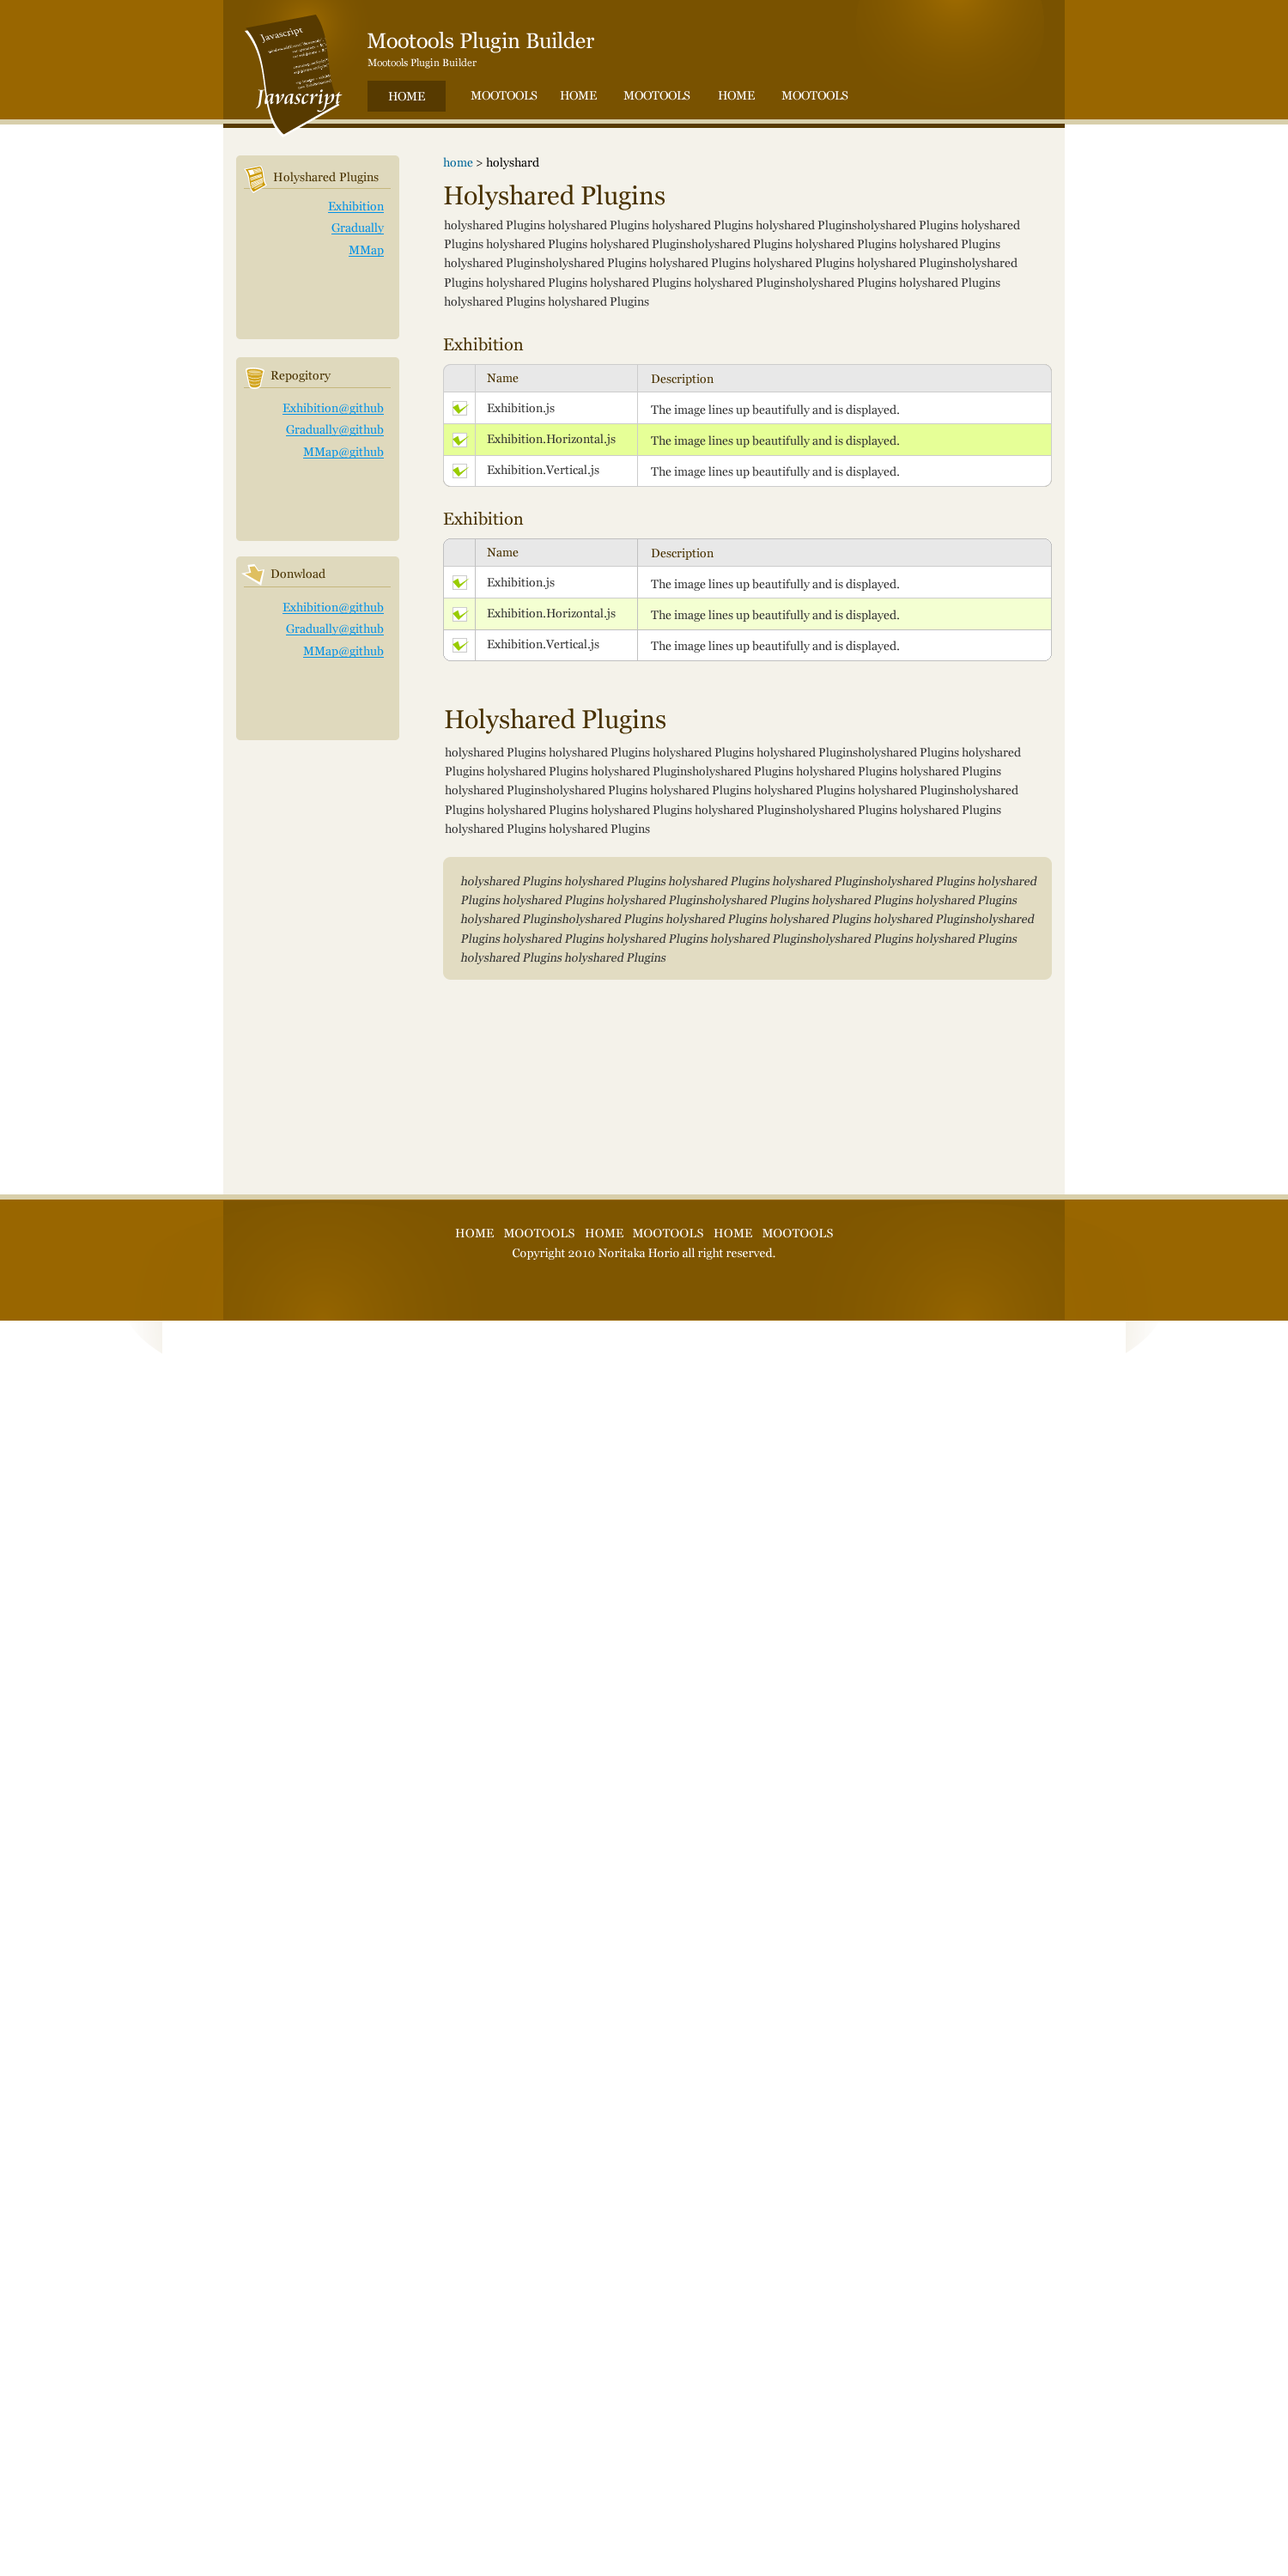
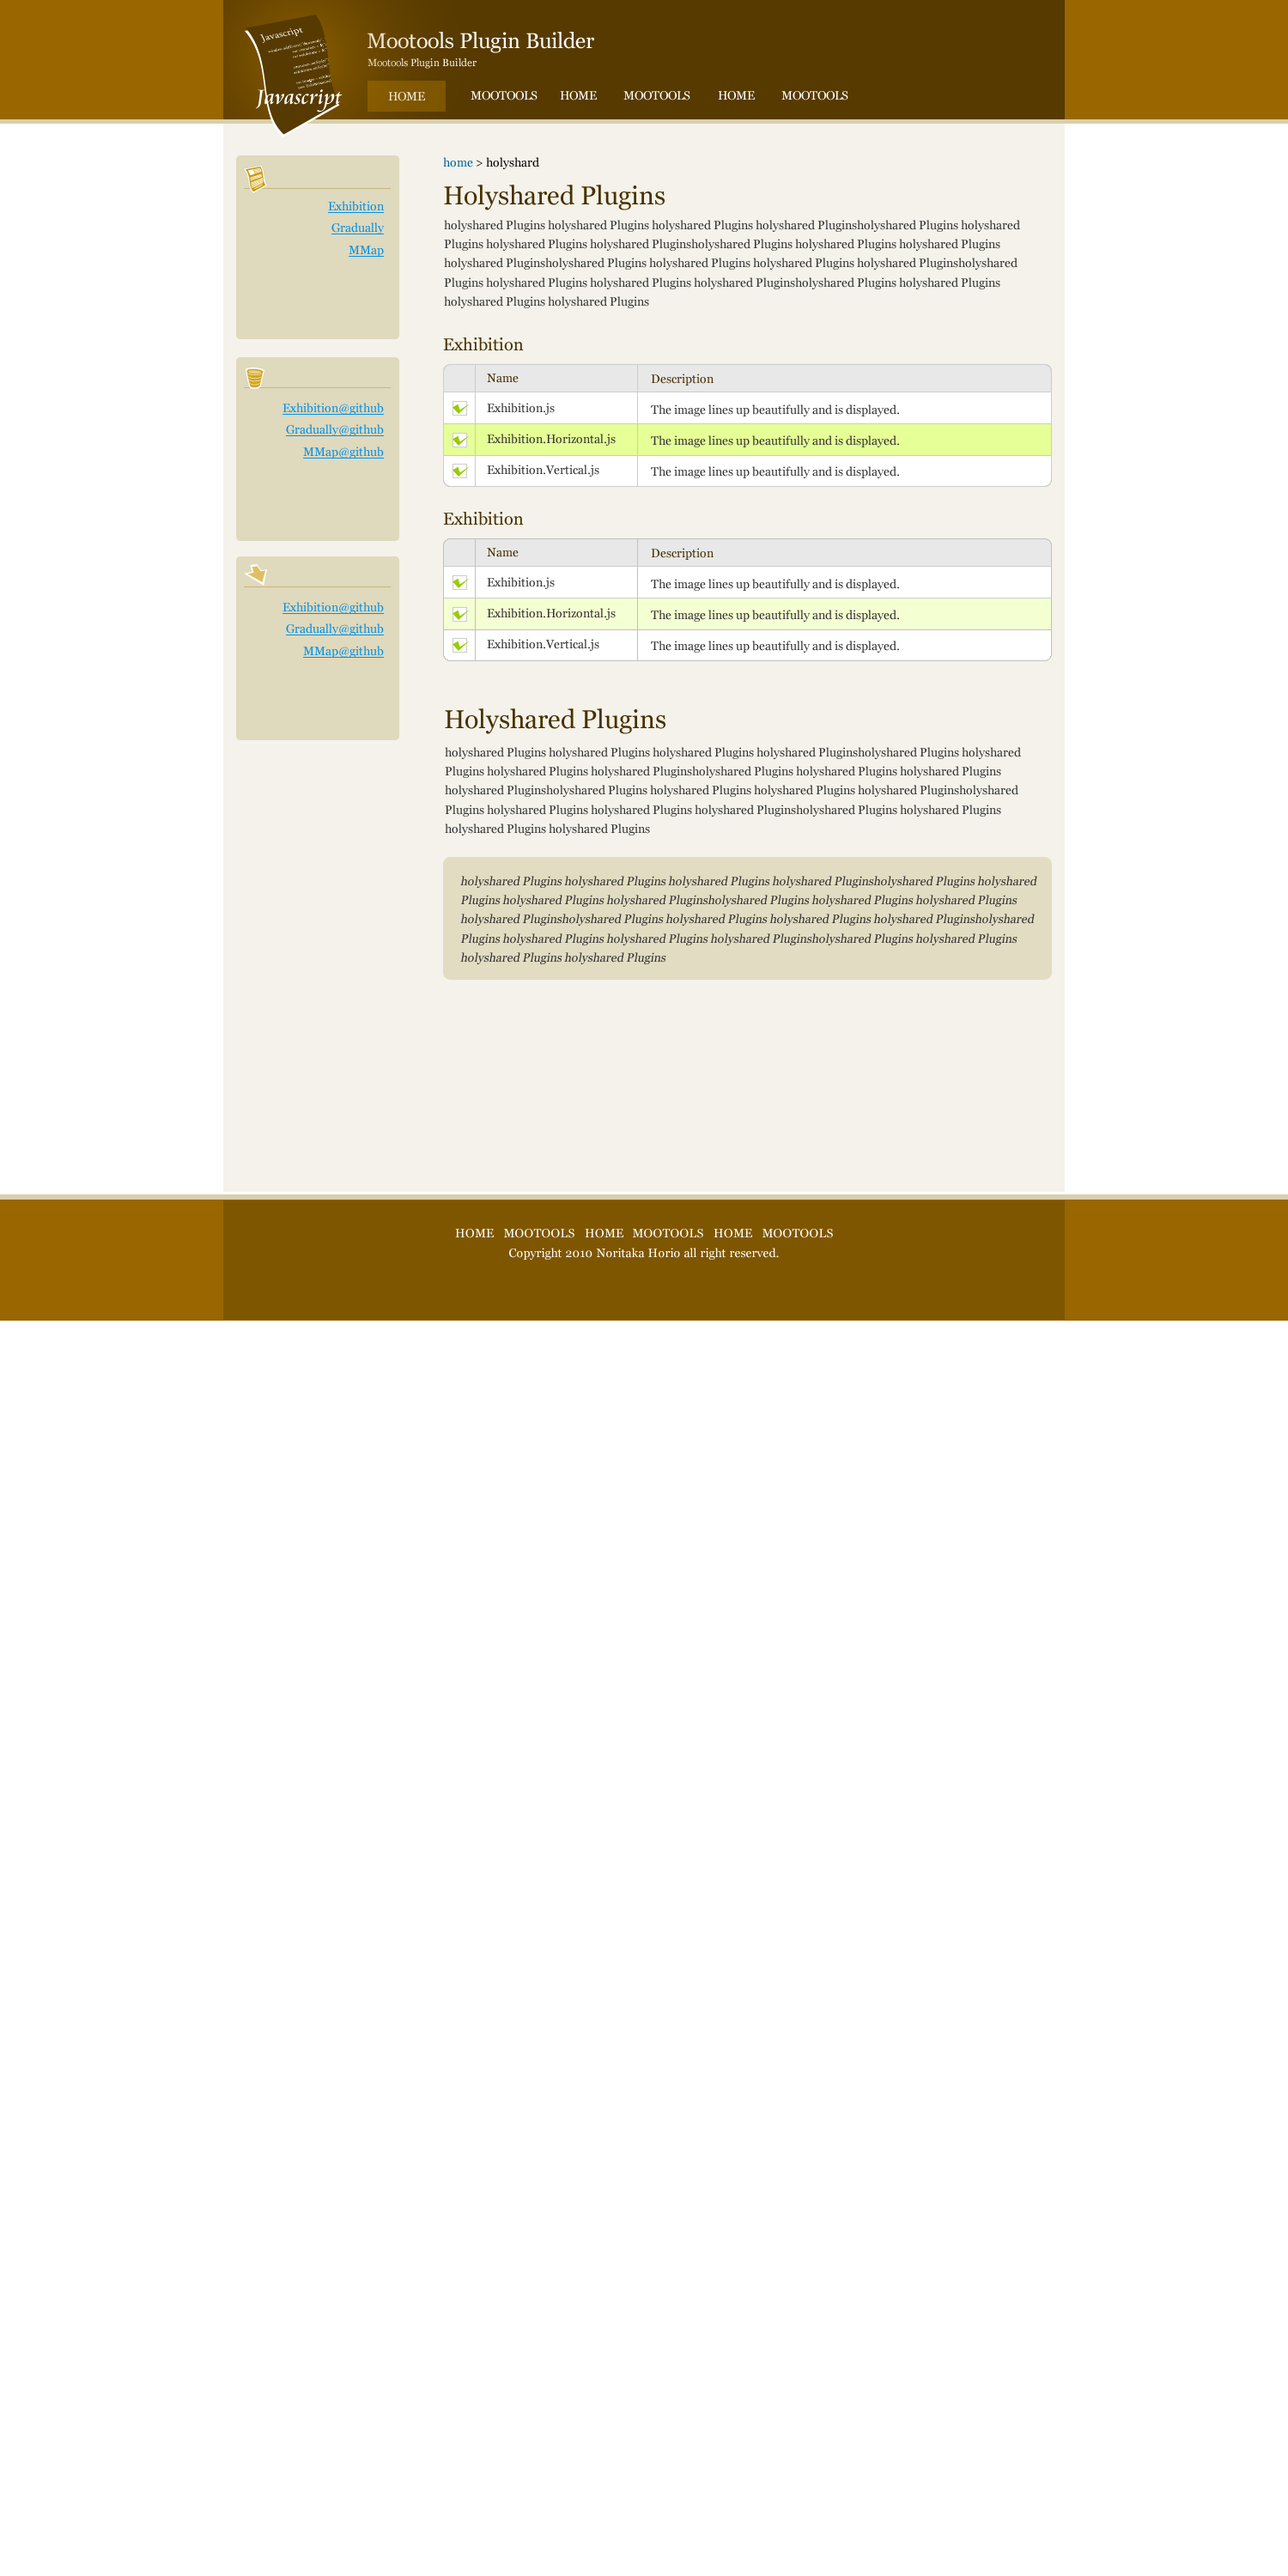
add mpb templates.

Changed region(s): [[0.276, 0.0, 0.828, 0.062], [0.2147, 0.0, 0.2453, 0.031]]

diff --git a/packages/mootools_plugin_builder/themes/script_builder/typography.css b/packages/mootools_plugin_builder/themes/script_builder/typography.css
@@ -1,22 +1,14 @@
 @charset "utf-8";
 /*
-10px=77%
-11px=85%
-12px=93%
-13px=100%
-14px=108%
-15px=116%
-16px=123.1%
-17px=131%
-18px=138.5%
-19px=146.5%
-20px=153.9%
-21px=161.6%
-22px=167%
-23px=174%
-24px=182%
-25px=189%
-26px=197%
+10 px : 77%   |  11 px : 85% 
+ *  12 px : 93%   |  13 px : 100%
+ *  14 px : 108%  |  15 px : 116%
+ *  16 px : 124%  |  17 px : 131%
+ *  18 px : 139%  |  19 px : 147%
+ *  20 px : 154%  |  22 px : 170%
+ *  24 px : 185%  |  26 px : 200%
+ *  28 px : 216%  |  30 px : 231%
+ *  32 px : 247%
 */
 
 body {
@@ -44,7 +36,6 @@ blockquote {
 	padding: 10px;
 }
 
-
 pre {
 	margin: 10px;
 }
@@ -66,32 +57,29 @@ strong {
 /* ====== Headings ====== */
 /* .h1-.h6 classes should be used to maintain the semantically appropriate heading levels - NOT for use on non-headings */
 h1, .h1 {
-	font-size: 197%;
+	font-size: 200%;
 	font-weight: normal;
 	font-style: normal;
 	color: #333333;
-	background: url(images/bgi_mpb.png) no-repeat left top;
 	min-height: 124px;
 	padding-left: 130px;
 	padding-top: 20px;
 }
 
 h2, .h2 {
-	font-size: 167%;
+	font-size: 231%;
 	font-weight: normal;
 	font-style: normal;
 	color: #333333;
-	background: url(images/bgi_h2.jpg) no-repeat left top;
-	padding: 10px 0px 10px 45px;
+	padding: 10px 0px 10px 0px;
 }
 
 h3, .h3 {
-	font-size: 138.5%;
+	font-size: 154%;
 	font-weight: normal;
 	font-style: normal;
 	color: #333333;
-	background: url(images/bgi_h3.jpg) no-repeat left top;
-	padding: 8px 0px 12px 45px;
+	padding: 8px 0px 12px 0px;
 }
 
 h4, .h4 {
@@ -101,7 +89,6 @@ h4, .h4 {
 	color: #333;
 	padding: 0px 0px 10px 0px;
 	background: none;
-	border-bottom: 1px solid #cccccc;
 }
 
 h5, .h5 {
@@ -150,21 +137,65 @@ ul.simpleList li {
 	margin-left: 40px;
 }
 
-
 /* ====== Tables ====== */
 table {
-	border-collapse: collapse;
+	border-collapse: separate;
+	border-spacing: 0px;
+	-webkit-border-radius: 7px;
+	-moz-border-radius: 7px;
+	border: 1px solid #cccccc;
 }
 
-th, td {
-	border: 1px solid #cccccc;
+table tr th, table tr td {
+	border-left: 1px solid #cccccc;
+	border-bottom: 1px solid #cccccc;
 	padding: 5px 10px;
+	vertical-align: top;
 }
+
+table tr:first-child th:first-child {
+	-moz-border-radius-topleft: 8px;
+	-webkit-border-radius-topleft: 10px;
+}
+
+table tr:first-child th:last-child {
+	-moz-border-radius-topright: 8px;
+	-webkit-border-radius-topright: 10px;
+}
+
+table tr:last-child td {
+	border-bottom: none;
+}
+
+table tr:last-child td:first-child {
+	-moz-border-radius-topleft: 8px;
+	-webkit-border-radius-topleft: 8px;
+}
+
+table tr:last-child td:last-child {
+	-moz-border-radius-topright: 8px;
+	-webkit-border-radius-topright: 8px;
+}
+
+table tr td:first-child, table tr th:first-child {
+	border-left: none;
+}
+
+
+
+
+
+
+
+
+
+
+
+
 
 th {
 	font-weight: bold;
 	text-transform: uppercase;
-	background: url(images/bgi_th.jpg) repeat-x left center;
 }
 
 /* ====== blockquote ====== */

diff --git a/packages/mootools_plugin_builder/themes/script_builder/css/mod.css b/packages/mootools_plugin_builder/themes/script_builder/css/mod.css
@@ -12,7 +12,7 @@ version: 0.2
 }
 
 .mod .inner {
-	padding: 0px 15px 0px 0px;
+	padding: 10px;
 }
 
 .inner {
@@ -27,20 +27,43 @@ version: 0.2
 
 .hd {
 	margin-bottom: 5px;
-	border-bottom: 1px solid #cccccc;
 }
 
-.bd h4, .bd .h4 {
-	margin-top: 15px;
+.aside {
+	background: #DFD9BD;
+	-webkit-border-radius: 7px;
+	-moz-border-radius: 7px;
 }
 
-.bd h5, .bd .h5 {
-	margin-top: 10px;
+.aside .hd {
+	padding-left: 30px;
+}
+
+.aside ul li {
+	text-align: right;
+}
+
+.local {
+	background: #DFD9BD url(../images/bgi_nav.gif) no-repeat center top;
+	min-height: 32px;
+}
+
+.repos {
+	background: #DFD9BD url(../images/bgi_repos.gif) no-repeat center top;
+	min-height: 25px;
+}
+
+.download {
+	background: #DFD9BD url(../images/bgi_download.gif) no-repeat center top;
+	min-height: 27px;
 }
 
 
 
 
+
+
+/*
 
 .head .horizontal {
 	margin-left: 120px;
@@ -80,62 +103,5 @@ version: 0.2
 	margin-bottom: 30px;
 }
 
-
-
-
-
-
-
-
-
-
-
-
-
-.copyright, .signin {
-	text-align: center;
-}
-
-
-
-/*============ LEAD ============*/
-.lead {
-	margin-bottom: 15px;
-}
-
-
-/*================== Navigation ====================*/
-.horizontal {
-	overflow: hidden;
-}
-
-.horizontal li {
-	float: left;
-	margin-left: 10px;
-}
-
-.topicPath {
-	margin-bottom: 15px;
-}
-
-.topicPath li {
-	margin-left: 0px;
-	margin-right: 5px;
-}
-
-
-
-/*============ Local Navigation ============*/
-.local .inner {
-	padding-right: 5px;
-}
-
-.local .nav li {
-	font-size: 93%;
-}
-
-/*============ Package Navigation ============*/
-.package .hd {
-	margin-bottom: 10px;
-}
+*/
 

diff --git a/packages/mootools_plugin_builder/themes/script_builder/template.html b/packages/mootools_plugin_builder/themes/script_builder/template.html
@@ -23,10 +23,10 @@
 			</div>
 
 			<div class="body">
-				<div class="leftCol gMail">
-					<div class="mod local">
+				<div class="leftCol mBuilder">
+					<div class="mod aside">
 						<div class="inner">
-							<div class="hd">
+							<div class="hd local">
 								<h3 class="h4">Module Default</h3>
 							</div>
 							<div class="bd">
@@ -39,6 +39,39 @@
 							</div>
 						</div>
 					</div>
+
+					<div class="mod aside">
+						<div class="inner">
+							<div class="hd repos">
+								<h3 class="h4">Repogitory</h3>
+							</div>
+							<div class="bd">
+								<div class="nav">
+									<ul class="nav-header">
+										<li class="nav-selected first"><a class="nav-selected" href="/">Home</a></li>
+										<li class=" "><a href="/index.php/builder/">Builder</a></li>
+									</ul>
+								</div>
+							</div>
+						</div>
+					</div>
+
+					<div class="mod aside">
+						<div class="inner">
+							<div class="hd download">
+								<h3 class="h4">Downloads</h3>
+							</div>
+							<div class="bd">
+								<div class="nav">
+									<ul class="nav-header">
+										<li class="nav-selected first"><a class="nav-selected" href="/">Home</a></li>
+										<li class=" "><a href="/index.php/builder/">Builder</a></li>
+									</ul>
+								</div>
+							</div>
+						</div>
+					</div>
+
 				</div>
 
 				<div class="main">

diff --git a/packages/mootools_plugin_builder/themes/script_builder/css/template.css b/packages/mootools_plugin_builder/themes/script_builder/css/template.css
@@ -18,18 +18,4 @@ body{_text-align:center;}/* IE5.5 */
 .gCal{width:180px;}
 .yahoo{width:240px;}
 .myYahoo{width:300px;}
-
-.page {
-	padding: 0px 0px 0px 15px;
-	border-left: 1px solid #cccccc;
-	border-right: 1px solid #cccccc;
-}
-
-.leftCol {
-	padding-right: 10px;
-}
-
-.main {
-	border-left: 1px solid #cccccc;
-	padding-left: 20px;
-}
+.mBuilder{width:190px;}
